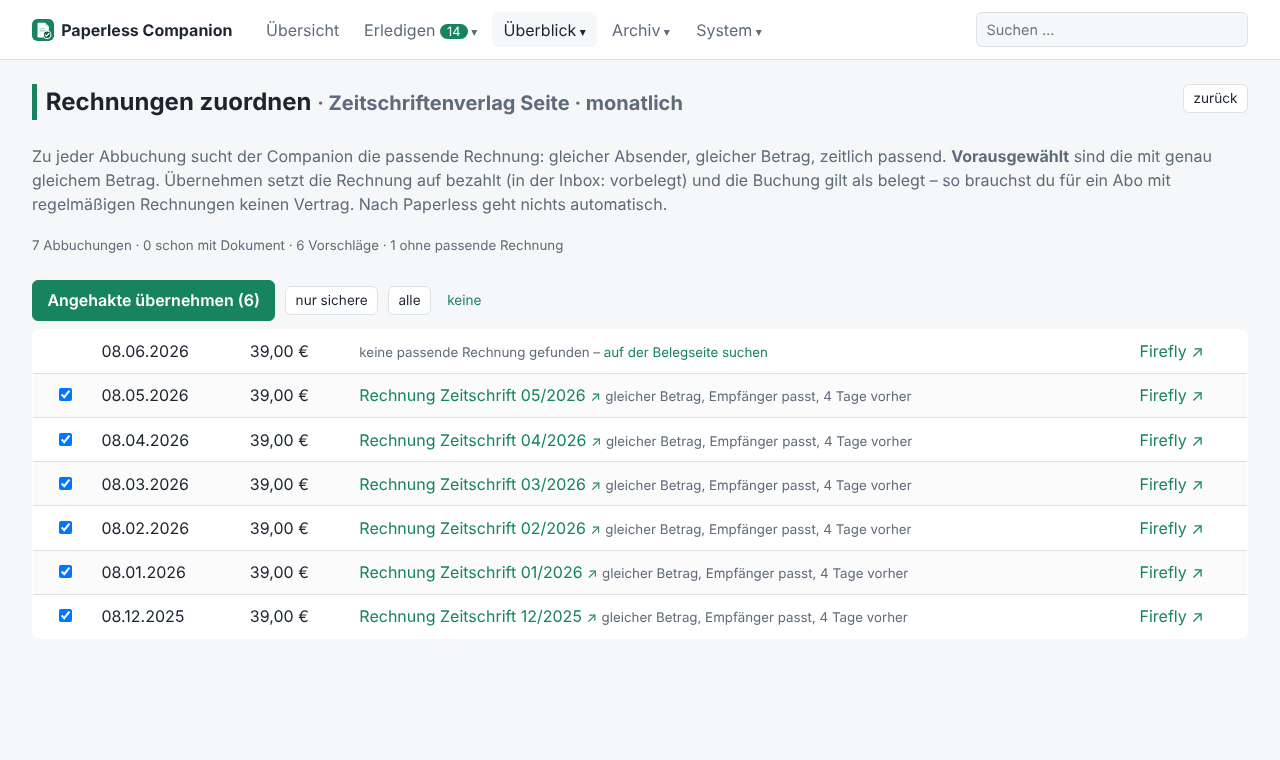
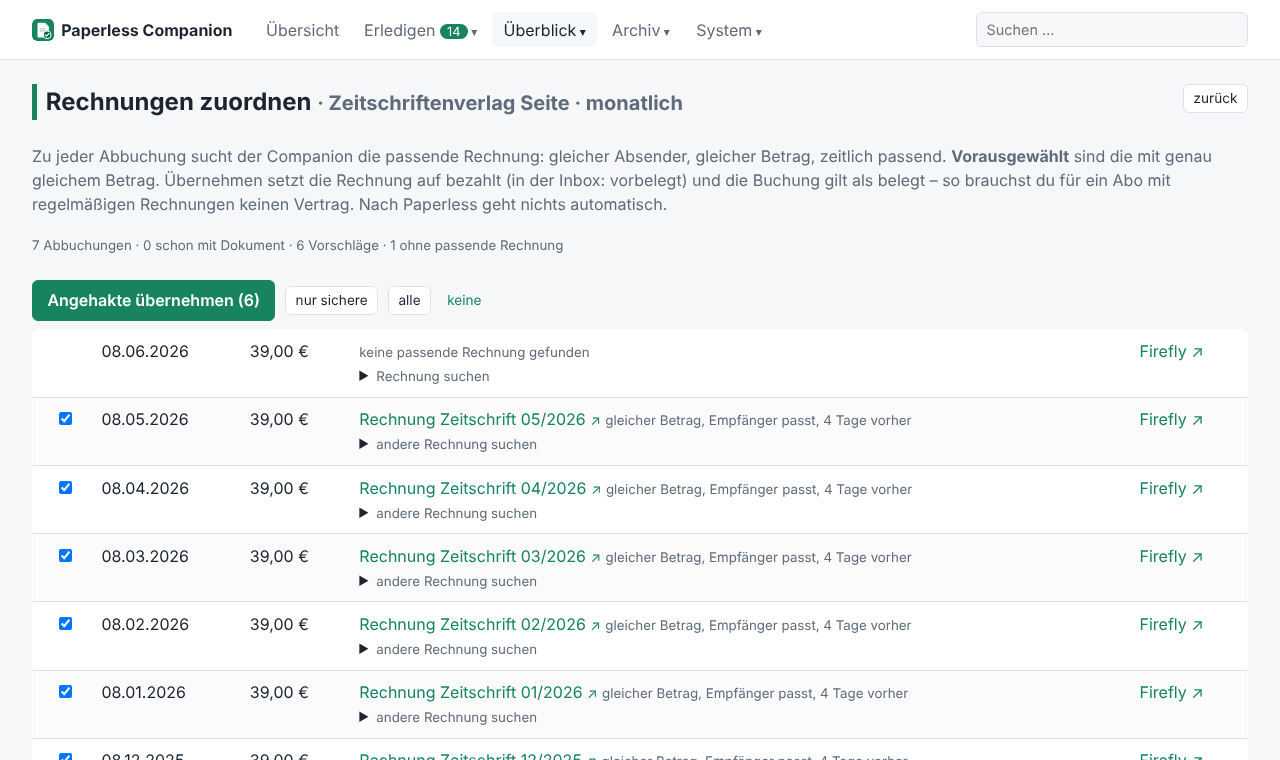
Abo: Dokument per Suche und Vorschlag anhängen, Rechnungen je Buchung von Hand zuordnen
- Abo-Seite: Vorschläge (Absender/Titel passt) und Dokumentsuche (Titel, Absender, Paperless-ID) statt nur ID-Feld,
  Knopf „Rechnungen zuordnen“ direkt bei den Abbuchungen
- Rechnungen zuordnen: je Buchung „Rechnung suchen“ für Rechnungen, die der Companion nicht selbst findet
- Tests, Screenshot, README

Claude-Session: https://claude.ai/code/session_01GZFJmjHzpJwZEudqzSRrzQ

diff --git a/app/templates/series_invoices.html b/app/templates/series_invoices.html
@@ -22,30 +22,43 @@
     <button type="button" class="small link" onclick="siPick('none')">keine</button>
   </div>
   {% endif %}
-  <table class="list compact"><tbody>
+</form>
+  <table class="list compact si-table"><tbody>
     {% for r in rows %}{% set t = r.tx %}
     <tr>
-      <td>{% if r.state == 'suggest' %}<input type="checkbox" name="pick" value="{{ t.journal_id }}:{{ r.doc.id }}" data-sure="{{ 1 if r.sure else 0 }}" {{ 'checked' if r.sure }} onchange="siCount()" aria-label="übernehmen">{% elif r.state == 'done' %}✓{% endif %}</td>
+      <td>{% if r.state == 'suggest' %}<input type="checkbox" form="si-form" name="pick" value="{{ t.journal_id }}:{{ r.doc.id }}" data-sure="{{ 1 if r.sure else 0 }}" {{ 'checked' if r.sure }} onchange="siCount()" aria-label="übernehmen">{% elif r.state == 'done' %}✓{% endif %}</td>
       <td class="nowrap">{{ t.date|d }}</td><td class="nowrap">{{ t.amount|eur }}</td>
       <td>{% if r.doc %}<a href="/documents/{{ r.doc.id }}">{{ r.doc.title or ('#' ~ r.doc.id) }}</a> {{ doclink(r.doc.id) }}
           <small class="muted">{% if r.state == 'done' %}zugeordnet{% else %}{{ r.reason }}{% endif %}</small>
-        {% else %}<small class="muted">keine passende Rechnung gefunden – <a href="/receipts#tx-search">auf der Belegseite suchen</a></small>{% endif %}</td>
+        {% else %}<small class="muted">keine passende Rechnung gefunden</small>{% endif %}
+        {% if r.state != 'done' %}<details class="si-search"><summary><small>{{ 'andere Rechnung suchen' if r.doc else 'Rechnung suchen' }}</small></summary>
+          <div class="receipt-search" data-url="/recurring/invoice-search?key={{ s.key|urlencode }}&amp;tx={{ t.journal_id|urlencode }}&amp;back={{ back|urlencode }}&amp;">
+            <input type="search" placeholder="Titel, Absender oder Paperless-ID" aria-label="Rechnung suchen" oninput="siSearch(this)" autocomplete="off">
+            <div class="receipt-hits" aria-live="polite"></div></div></details>{% endif %}</td>
       <td class="nowrap">{% if t.group_id %}{{ txlinks(t.group_id, t.date) }}{% endif %}</td></tr>
     {% endfor %}
   </tbody></table>
-</form>
 <script>
 function siCount() {
   const go = document.getElementById('si-go');
   if (!go) return;
-  const n = document.querySelectorAll('#si-form input[name=pick]:checked').length;
+  const n = document.querySelectorAll('input[form=si-form][name=pick]:checked').length;
   document.getElementById('si-n').textContent = n;
   go.disabled = n === 0;
 }
 function siPick(mode) {
-  document.querySelectorAll('#si-form input[name=pick]').forEach((b) => { b.checked = mode === 'all' || (mode === 'sure' && b.dataset.sure === '1'); });
+  document.querySelectorAll('input[form=si-form][name=pick]').forEach((b) => { b.checked = mode === 'all' || (mode === 'sure' && b.dataset.sure === '1'); });
   siCount();
 }
 siCount();
+function siSearch(input) {
+  const box = input.closest('.receipt-search'), out = box.querySelector('.receipt-hits');
+  clearTimeout(box._timer);
+  if (input.value.trim().length < 2 && !/^#?\d+$/.test(input.value.trim())) { out.innerHTML = ''; return; }
+  box._timer = setTimeout(async () => {
+    try { out.innerHTML = await (await fetch(box.dataset.url + 'q=' + encodeURIComponent(input.value))).text(); }
+    catch (e) { out.innerHTML = '<small class="bad">Suche fehlgeschlagen.</small>'; }
+  }, 250);
+}
 </script>
 {% endblock %}

diff --git a/app/templates/contract.html b/app/templates/contract.html
@@ -57,20 +57,37 @@
   <p><strong>{{ s.payee }}</strong> · {{ s.rhythm }} · zuletzt {{ s.last_date|d }} über {{ s.last_amount|eur }} · nächste um den {{ s.next_date|d }}</p>
   {{ bookings(s, back='/contracts/' ~ c.id, open=true) }}
   {% endfor %}
-  <p><a class="button small" href="/contracts/{{ c.id }}/bookings">Weitere Buchungen suchen und zuordnen</a></p>
+  <p><a class="button small" href="/contracts/{{ c.id }}/bookings">Weitere Buchungen suchen und zuordnen</a>
+    {% for s in series %}<a class="button small" href="/recurring/invoices?key={{ s.key|urlencode }}&amp;back={{ ('/contracts/' ~ c.id)|urlencode }}">Rechnungen zuordnen{% if series|length > 1 %} ({{ s.amounts|length }} Buchungen){% endif %}</a> {% endfor %}</p>
 </section>
 {% else %}
 <p class="muted">Noch keine Abbuchungen erkannt. Unter <a href="/recurring">Regelmäßige Zahlungen</a> „Jetzt aus Firefly erkennen“ – der
   „Empfänger in Firefly“ oben muss zum Namen in Firefly passen – oder <a href="/contracts/{{ c.id }}/bookings">Buchungen selbst suchen und zuordnen</a>.</p>
 {% endif %}
 
-<section class="card">
+<section class="card" id="dokument">
   <h2>Dokument anhängen</h2>
-  <p class="muted">Kommt doch noch ein Dokument (Vertragsbestätigung, Rechnung als PDF), hänge es an – dann wird aus dem Abo ein normaler Vertrag.</p>
-  <form method="post" action="/contracts/{{ c.id }}" class="inline">
-    <input type="hidden" name="action" value="attach">
-    <input name="doc_id" inputmode="numeric" placeholder="Paperless-ID" aria-label="Paperless-ID" required>
-    <button class="small">Anhängen</button>
-  </form>
+  <p class="muted">Kommt doch noch ein Dokument (Vertragsbestätigung, Rechnung als PDF), hänge es an – dann wird aus dem Abo ein normaler Vertrag.
+    Einzelne Rechnungen zu den Abbuchungen ordnest du dagegen unter „Rechnungen zuordnen“ zu – dafür bleibt es ein Abo.</p>
+  {% if doc_suggestions %}
+  <p><strong>Vorschläge</strong> <small class="muted">(Absender oder Titel passt zu „{{ c.payee or c.name }}“)</small></p>
+  {% with docs = doc_suggestions %}{% include "_contract_docs.html" %}{% endwith %}
+  {% endif %}
+  <div class="receipt-search ct-docsearch" data-url="/contracts/{{ c.id }}/doc-search?">
+    <input type="search" placeholder="Dokument suchen: Titel, Absender oder Paperless-ID" aria-label="Dokument suchen"
+      oninput="ctDocSearch(this)" autocomplete="off">
+    <div class="receipt-hits" aria-live="polite"></div>
+  </div>
 </section>
+<script>
+function ctDocSearch(input) {
+  const box = input.closest('.ct-docsearch'), out = box.querySelector('.receipt-hits');
+  clearTimeout(box._timer);
+  if (input.value.trim().length < 2 && !/^#?\d+$/.test(input.value.trim())) { out.innerHTML = ''; return; }
+  box._timer = setTimeout(async () => {
+    try { out.innerHTML = await (await fetch(box.dataset.url + 'q=' + encodeURIComponent(input.value))).text(); }
+    catch (e) { out.innerHTML = '<small class="bad">Suche fehlgeschlagen.</small>'; }
+  }, 250);
+}
+</script>
 {% endblock %}

diff --git a/app/templates/_series_doc_hits.html b/app/templates/_series_doc_hits.html
@@ -1,0 +1,19 @@
+{% from "macros.html" import doclink %}
+{# Treffer der Rechnungssuche für eine einzelne Abbuchung (Seite „Rechnungen zuordnen“) #}
+{% if docs %}
+<ul class="plain receipt-hit-list">
+  {% for d in docs %}
+  <li>
+    <span class="cand-doc"><a href="/documents/{{ d.id }}" target="_blank" rel="noopener">{{ d.title or ('#' ~ d.id) }}</a> {{ doclink(d.id) }}
+      <small class="muted">{{ d.correspondent or 'ohne Korrespondent' }}{% if d.created %} · {{ d.created|d }}{% endif %} · #{{ d.id }}{% if d.invoice and d.invoice.amount is not none %} · {{ d.invoice.amount|eur }}{% endif %}</small></span>
+    <form method="post" action="/recurring/invoices" class="inline">
+      <input type="hidden" name="key" value="{{ key }}"><input type="hidden" name="back" value="{{ back }}">
+      <input type="hidden" name="pick" value="{{ tx }}:{{ d.id }}">
+      <button class="small" title="Rechnung dieser Buchung zuordnen (Rechnung gilt als bezahlt, Buchung als belegt)">Das ist die Rechnung</button>
+    </form>
+  </li>
+  {% endfor %}
+</ul>
+{% else %}
+<small class="muted">Nichts gefunden. Tipp: ein Wort aus dem Titel, der Absender oder die Paperless-ID.</small>
+{% endif %}

diff --git a/app/templates/_contract_docs.html b/app/templates/_contract_docs.html
@@ -1,0 +1,19 @@
+{% from "macros.html" import doclink %}
+{# Treffer bzw. Vorschläge für das Dokument eines Abos – Knopf hängt es als Vertragsdokument an #}
+{% if docs %}
+<ul class="plain receipt-hit-list">
+  {% for d in docs %}
+  <li>
+    <span class="cand-doc"><a href="/documents/{{ d.id }}" target="_blank" rel="noopener">{{ d.title or ('#' ~ d.id) }}</a> {{ doclink(d.id) }}
+      <small class="muted">{{ d.correspondent or 'ohne Korrespondent' }}{% if d.created %} · {{ d.created|d }}{% endif %} · #{{ d.id }}{% if d.kind %} · {{ KINDS.get(d.kind, d.kind) }}{% endif %}</small></span>
+    {% if d.contract %}<small class="muted">gehört schon zu einem Vertrag</small>
+    {% else %}<form method="post" action="/contracts/{{ c.id }}" class="inline">
+      <input type="hidden" name="action" value="attach"><input type="hidden" name="doc_id" value="{{ d.id }}">
+      <button class="small" title="Dokument wird zum Vertragsdokument dieses Abos">als Vertragsdokument anhängen</button>
+    </form>{% endif %}
+  </li>
+  {% endfor %}
+</ul>
+{% else %}
+<small class="muted">Nichts gefunden. Tipp: ein Wort aus dem Titel, der Absender oder die Paperless-ID.</small>
+{% endif %}

diff --git a/app/main.py b/app/main.py
@@ -1245,7 +1245,19 @@ def create_app(settings: Settings | None = None, start_worker: bool = True) -> F
             return RedirectResponse(f"/documents/{c.document_id}", status_code=303)
         deadline = deadlines.compute(deadlines.terms_from_contract(c), today())
         series = [x for x in recurring.stored(session) if x.contract_id == c.id]
-        return render(request, "contract.html", c=c, msg=msg, deadline=deadline, series=series)
+        return render(request, "contract.html", c=c, msg=msg, deadline=deadline, series=series,
+                      doc_suggestions=seriesdocs.contract_doc_suggestions(session, c))
+
+    @app.get("/contracts/{contract_id}/doc-search", response_class=HTMLResponse)
+    def contract_doc_search(request: Request, contract_id: int, q: str = "", session: Session = Depends(get_session)):
+        """Dokument für ein Abo suchen (Titel, Absender, Dateiname, Paperless-ID) – zum Anhängen als Vertragsdokument."""
+        from types import SimpleNamespace
+
+        c = session.get(Contract, contract_id)
+        if c is None:
+            raise HTTPException(404)
+        docs = receipts.search_documents(session, SimpleNamespace(tx_date=today()), q.strip().lstrip("#"), limit=10)
+        return render(request, "_contract_docs.html", docs=docs, c=c)
 
     @app.post("/contracts/{contract_id}")
     async def contract_save(request: Request, contract_id: int, session: Session = Depends(get_session)):
@@ -1597,6 +1609,19 @@ def create_app(settings: Settings | None = None, start_worker: bool = True) -> F
         rows = seriesdocs.pairs(session, series)
         target = back if back.startswith("/") and not back.startswith("//") else "/recurring"
         return render(request, "series_invoices.html", s=series, rows=rows, back=target, msg=msg)
+
+    @app.get("/recurring/invoice-search", response_class=HTMLResponse)
+    def recurring_invoice_search(request: Request, key: str = "", tx: str = "", q: str = "", back: str = "",
+                                 session: Session = Depends(get_session)):
+        """Rechnung für eine einzelne Abbuchung einer Serie von Hand suchen."""
+        from types import SimpleNamespace
+
+        series = next((x for x in recurring.stored(session) if x.key == key), None)
+        if series is None or tx not in series.tx_ids:
+            raise HTTPException(404)
+        day = date.fromisoformat(series.dates[series.tx_ids.index(tx)])
+        docs = receipts.search_documents(session, SimpleNamespace(tx_date=day), q.strip().lstrip("#"), limit=8)
+        return render(request, "_series_doc_hits.html", docs=docs, key=key, tx=tx, back=back)
 
     @app.post("/recurring/invoices")
     async def recurring_invoices_apply(request: Request, session: Session = Depends(get_session)):

diff --git a/tests/test_recurring.py b/tests/test_recurring.py
@@ -345,3 +345,39 @@ def test_free_booking_search_creates_abo(client, settings, mock_api):
     r = client.post("/bookings", data={"tx": values[3:], "op": "contract", "contract_id": str(other_id)})
     assert "1 Buchung gehört jetzt zu „Fotodienst“" in r.text
     assert "Bitte einen Vertrag wählen" in client.post("/bookings", data={"tx": values[3:], "op": "contract"}).text
+
+
+def test_abo_document_search_and_manual_invoice(client):
+    """Abo ohne Dokument: Dokument per Suche/Vorschlag anhängen statt Paperless-ID; einzelne Rechnung zu einer Buchung
+    von Hand suchen und zuordnen."""
+    from app.models import Invoice
+
+    txs = monthly("Zeitschriftenverlag Seite", 7.5, 3, start=date(2026, 7, 5))
+    with session_scope() as s:
+        abo = Contract(name="Zeitschrift", provider="Zeitschrift", payee="Zeitschriftenverlag Seite")
+        s.add(abo)
+        s.add(Document(id=970, title="Aboauftrag Zeitschrift", correspondent="Zeitschriftenverlag Seite", kind="contract",
+                       tags=[], created=date(2026, 6, 1)))
+        odd = Document(id=971, title="Sammelrechnung Sommer", correspondent="Verlagsservice", kind="invoice", tags=[],
+                       review_state="confirmed")
+        odd.invoice = Invoice(issuer="Verlagsservice", amount=22.5, invoice_date=date(2026, 7, 1))
+        s.add(odd)
+        s.flush()
+        cid = abo.id
+        recurring.run(s, txs)
+        key = recurring.stored(s)[0].key
+        recurring.link_contract(s, key, cid)
+    page = client.get(f"/contracts/{cid}").text
+    assert "Aboauftrag Zeitschrift" in page and "als Vertragsdokument anhängen" in page and "Rechnungen zuordnen" in page
+    hits = client.get(f"/contracts/{cid}/doc-search?q=aboauftrag").text
+    assert "Aboauftrag Zeitschrift" in hits and "#970" in hits
+    assert "Aboauftrag" in client.get(f"/contracts/{cid}/doc-search?q=%23970").text  # Paperless-ID geht weiter
+    tx_id = txs[0].journal_id
+    hits = client.get(f"/recurring/invoice-search?key={key}&tx={tx_id}&q=sammelrechnung").text
+    assert "Sammelrechnung Sommer" in hits and "Das ist die Rechnung" in hits
+    r = client.post("/recurring/invoices", data={"key": key, "back": f"/contracts/{cid}", "pick": f"{tx_id}:971"})
+    assert "1 Rechnung zugeordnet" in r.text
+    with session_scope() as s:
+        assert s.get(Document, 971).invoice.status == "paid"
+    r = client.post(f"/contracts/{cid}", data={"action": "attach", "doc_id": "970"})
+    assert "das Abo ist jetzt ein Vertrag mit Dokument" in r.text

diff --git a/scripts/screenshots.py b/scripts/screenshots.py
@@ -215,6 +215,8 @@ def start_demo(data: Path, port: int) -> None:
         s.add(Contract(name="Hörbuchclub", provider="Hörbuchclub", payee="Hörbuchclub", payment_amount=9.95, payment_interval=1,
                        monthly_cost=9.95, renewal_mode="indefinite", notice_value=1, notice_unit="months", notice_to="any",
                        status="active"))
+        s.add(Document(id=830, title="Willkommen im Hörbuchclub – Mitgliedschaft", correspondent="Hörbuchclub", kind="contract",
+                       document_type="Vertrag", tags=[], created=date(2026, 5, 28), extraction_state="done"))
         # Zeitschrift: monatliche Rechnungen zu den Abbuchungen (für „Rechnungen zuordnen“), die neueste fehlt noch
         for i in range(6):
             day = start + relativedelta(months=i, days=1)
@@ -319,6 +321,9 @@ def shoot(base: str) -> None:
         p.goto(base + p.locator('a:has-text("Hörbuchclub")').first.get_attribute("href") + "/bookings?q=&bill=H%C3%B6rbuchclub")
         p.wait_for_timeout(300)
         p.screenshot(path=OUT / "buchungen-zuordnen.png")
+        p.goto(base + p.url.split(base)[1].split("/bookings")[0] + "#dokument")
+        p.wait_for_timeout(300)
+        p.screenshot(path=OUT / "abo-dokument.png")
         p.goto(base + "/bookings?q=&category=Medien&years=1")
         p.click("text=alle freien")
         p.wait_for_timeout(300)

diff --git a/app/seriesdocs.py b/app/seriesdocs.py
@@ -92,3 +92,19 @@ def apply(session: Session, s: Series, picks: list[tuple[str, int]]) -> int:
     session.flush()
     receipts.sync_payments(session)
     return done
+
+
+def contract_doc_suggestions(session: Session, contract, limit: int = 5) -> list[Document]:
+    """Mögliche Dokumente für ein Abo ohne Dokument: Absender oder Titel passt zu Empfänger bzw. Name des Abos,
+    noch kein Vertrag dran. Verträge zuerst, dann die neuesten."""
+    names = [n for n in (contract.payee, contract.name, contract.provider) if n]
+    if not names:
+        return []
+    hits = []
+    for d in session.scalars(select(Document)):
+        if d.contract is not None:
+            continue
+        if any(_name_fits(d.correspondent or "", n) or _name_fits(d.title or "", n) for n in names):
+            hits.append(d)
+    hits.sort(key=lambda d: (d.kind != "contract", -(d.created.toordinal() if d.created else 0)))
+    return hits[:limit]

diff --git a/README.md b/README.md
@@ -120,6 +120,12 @@ Buchungen) oder sie einem vorhandenen Vertrag zuordnen.
 
 ![Buchungen suchen](docs/screenshots/buchungen-suchen.png)
 
+**Abo ohne Dokument** – das Vertragsdokument per Suche (Titel, Absender oder Paperless-ID) oder aus den Vorschlägen
+anhängen; aus dem Abo wird dann ein normaler Vertrag. Einzelne Rechnungen zu den Abbuchungen ordnest du über
+„Rechnungen zuordnen“ zu – dort auch je Buchung von Hand gesucht.
+
+![Abo: Dokument anhängen](docs/screenshots/abo-dokument.png)
+
 **Verlauf** – was du zuletzt bearbeitet hast, wo das Dokument jetzt steht (z.B. bezahlt, wartet auf Übertragung)
 und auf welcher Seite du danach gelandet bist; je Dokument auch auf der Dokumentseite.
 
